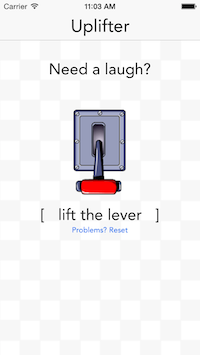
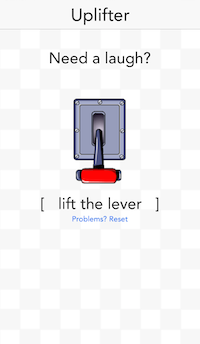
Update screenshots and spacing

diff --git a/README.md b/README.md
@@ -3,9 +3,11 @@ Uplifter
 
 Uplifter provides witty one-liners to brighten your day when you’re bored or just want something funny.
 
-![image](Screenshots/UplifterHome.png)
-![image](Screenshots/UplifterList.png)
-![image](Screenshots/UplifterTip.png)
+![Uplifter Home Image](Screenshots/UplifterHome.png)
+&nbsp;&nbsp; 
+![Uplifter Tip Image](Screenshots/UplifterTip.png)
+&nbsp;&nbsp; 
+![Uplifter Next Image](Screenshots/UplifterList.png)
 
 ###Uses:
 - Utilizes Parse PFObjects and PFQuery
